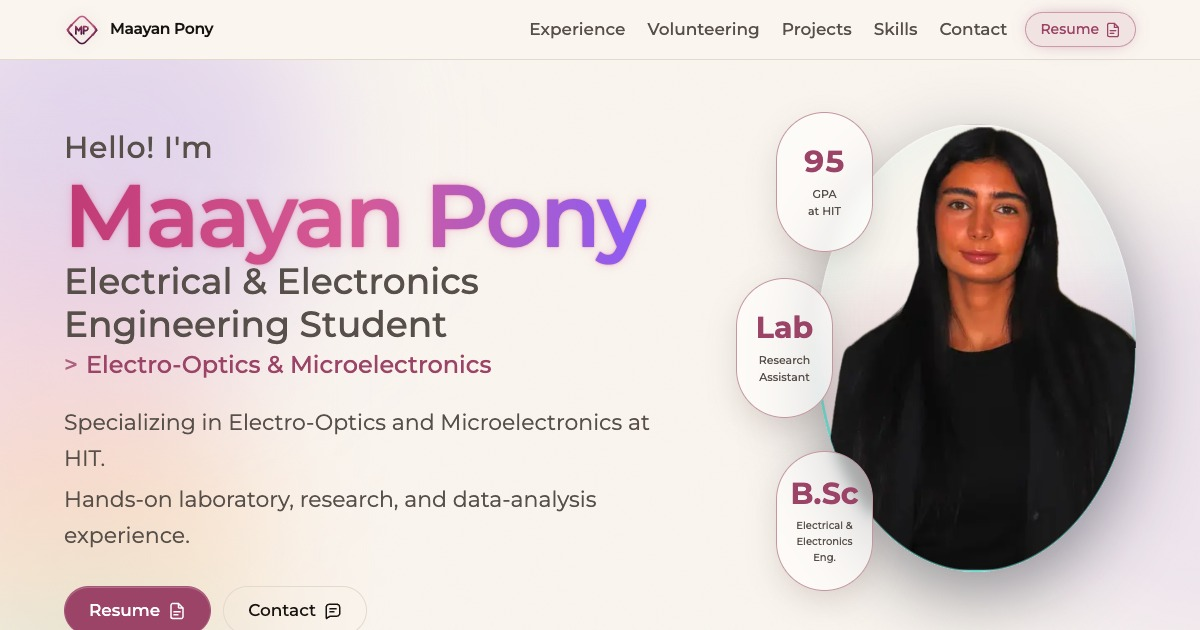
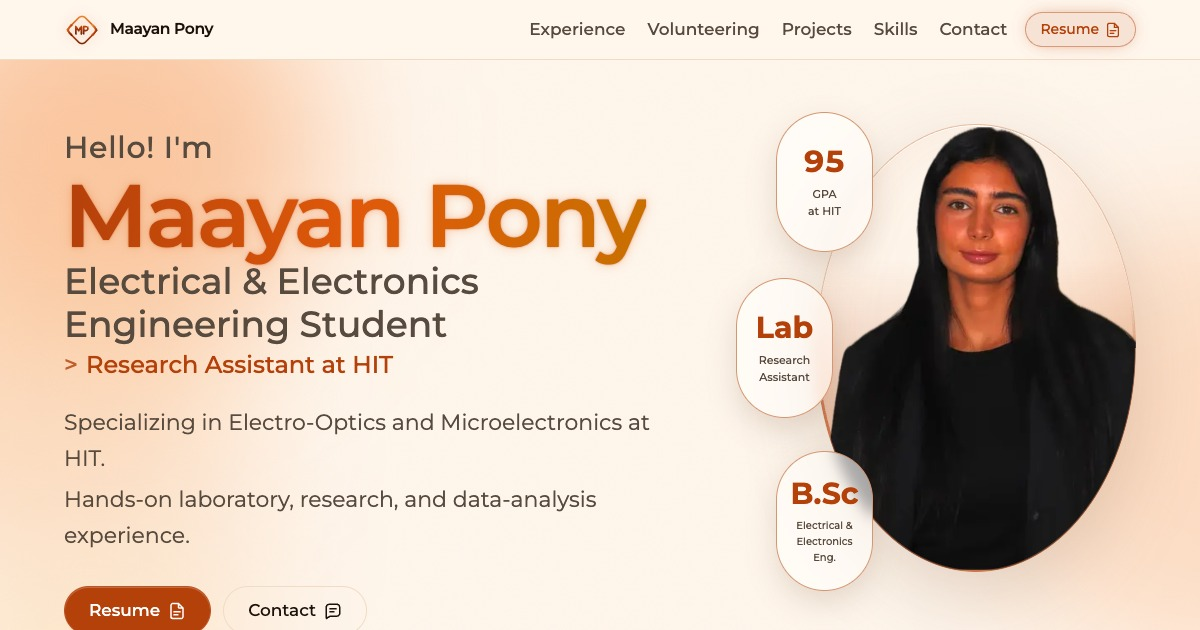
refactor color palette and gradients for a cohesive orange theme; update Hero and CSS for improved visual consistency

diff --git a/app/globals.css b/app/globals.css
@@ -10,28 +10,31 @@
 
 :root {
   color-scheme: light;
-  --bg-base: #FAF5EF;
-  --bg-surface: #FFFCF8;
+  --bg-base: #FFF6EC;
+  --bg-surface: #FFFBF6;
   --bg-surface-raised: #FFFFFF;
-  --border: #E3D9CD;
-  --text-primary: #171310;
-  --text-secondary: #574F4A;
-  --text-muted: #75695F;
-  /* Deep enough that accent-coloured text still clears AA when it sits on an
-     accent-tinted fill (the nav Resume CTA, the "current role" pill, the viewer action
-     links), not just on the bare page. `--accent-hover` goes darker, not lighter: on a
-     light surface, deeper reads as "pressed/active". */
-  --accent: #9C4468;
-  --accent-hover: #82334F;
+  --border: #F0DCC6;
+  --text-primary: #1A120B;
+  --text-secondary: #574A3E;
+  --text-muted: #766050;
+  /* Burnt orange, deep enough that accent-coloured text still clears AA when it sits on
+     an accent-tinted fill (the nav Resume CTA, the "current role" pill, the viewer action
+     links), not just on the bare page - a mid/bright orange would not (4.5:1 rules out
+     anything lighter than roughly this). `--accent-hover` goes darker, not lighter: on a
+     light surface, deeper reads as "pressed/active".
+     Contrast on --bg-base: accent 5.34:1, accent-hover 7.53:1; white on accent 5.71:1. */
+  --accent: #B4400A;
+  --accent-hover: #8F3105;
   --accent-contrast: #FFFFFF;
-  /* Display gradient (hero name, highlighted heading words, logo, bars). Runs
-     raspberry → rose → violet: saturated enough to read as colour (not grey-mauve)
-     on the cream page, warm and feminine to match the pastel washes, and every stop
-     clears 3:1 on --bg-base for the large display text it paints. */
-  --gradient-from: #C13A76;
-  --gradient-via: #D65A96;
-  --gradient-to: #8B5CF6;
-  --danger: #C93D3D;
+  /* Display gradient (hero name, highlighted heading words, logo, bars). A single-hue
+     sunset arc, deep orange → vivid orange → gold, mirroring the reference wash: the
+     bright core sits in the middle so the ends stay dark enough to read. Every stop
+     clears 3:1 on --bg-base for the large display text it paints (5.34 / 3.51 / 3.39). */
+  --gradient-from: #B4400A;
+  --gradient-via: #E0590A;
+  --gradient-to: #C97000;
+  /* Kept a true red rather than an orange-red, so error state never reads as accent. */
+  --danger: #B3211B;
 
   /* ---- Light-theme material tokens -------------------------------------------------
      The site's surfaces are "paper on cream": translucent white plates lifted off the
@@ -39,15 +42,18 @@
      tokens carry that language so every card, dialog, chip and seam is retinted from
      one place instead of from per-component literals. */
 
-  /* Soft pastel wash palette - the blurred ambient blobs behind the content. */
-  --pastel-pink: #F1C9D9;
-  --pastel-lavender: #D7C6EC;
-  --pastel-mint: #BCE3D9;
-  --pastel-peach: #F8D5AE;
+  /* Soft wash palette - the blurred ambient blobs behind the content. All one orange
+     family (pale peach → gold), separated by saturation and lightness rather than hue so
+     overlapping blobs still read as distinct shapes instead of one flat stain.
+     Decorative only: never text, never a border, so no contrast floor applies. */
+  --wash-peach: #FCDCC0;
+  --wash-apricot: #FBC79A;
+  --wash-tangerine: #F9AE79;
+  --wash-amber: #FDE2AC;
 
   /* Elevation. Warm ink, so shadows read as paper shade rather than grey haze; on a
      light page they need far lower alpha than a dark one. */
-  --shadow-rgb: 92 66 58;
+  --shadow-rgb: 104 62 34;
   /* Veil drawn over the page behind a modal / expanded card. */
   --scrim: rgb(var(--shadow-rgb) / 0.28);
 
@@ -64,14 +70,14 @@
      darker than the page, not a translucent white one). */
   --glass-edge: color-mix(in srgb, var(--accent) 20%, var(--border));
   --glass-edge-strong: color-mix(in srgb, var(--accent) 45%, var(--border));
-  /* The two hue tints layered into a plate, echoing the ambient pastels. */
+  /* The two tints layered into a plate, echoing the ambient washes. */
   --glass-tint-a: color-mix(in srgb, var(--accent) 7%, transparent);
   --glass-tint-b: color-mix(in srgb, var(--gradient-to) 6%, transparent);
   /* Small pills/chips sitting on a plate. */
   --chip-fill: color-mix(in srgb, var(--accent) 6%, transparent);
   --chip-fill-hover: color-mix(in srgb, var(--accent) 12%, transparent);
   /* Roadmap road surface + lane dashes (§8.6). */
-  --road-surface: #C8BCAE;
+  --road-surface: #D2B79B;
   --road-lane: rgb(255 255 255 / 0.85);
 
   --background: var(--bg-base);
@@ -168,7 +174,7 @@ html {
 }
 
 /* Hero name shine - decorative sweep layered over the typed name; runs after typing
-   completes (gated in JSX) and only when motion is allowed. A bright rose-white glint
+   completes (gated in JSX) and only when motion is allowed. A bright amber-white glint
    (soft tinted shoulders, near-white core) so the pass reads as light catching the
    letters rather than a shadow crossing them. */
 .hero-name-shine {
@@ -176,7 +182,7 @@ html {
     100deg,
     transparent 30%,
     color-mix(in srgb, #ffffff 55%, var(--gradient-from)) 42%,
-    #fff9fc 50%,
+    #fffaf2 50%,
     color-mix(in srgb, #ffffff 55%, var(--gradient-to)) 58%,
     transparent 70%
   );
@@ -2529,25 +2535,25 @@ main:focus-visible {
   inset: 0;
 }
 
-/* The glows paint with the pastel wash palette rather than the accent itself: on a
-   cream page a saturated tint reads as a stain, while the pastels read as the soft
-   blurred blobs the theme is built around. Light pastels need a much higher mix
-   percentage than the old dark-theme tints to be visible at all. */
+/* The glows paint with the soft wash palette rather than the accent itself: on a
+   warm cream page the saturated burnt orange reads as a stain, while the light washes
+   read as the soft blurred blobs the theme is built around. Light washes need a much
+   higher mix percentage than the old dark-theme tints to be visible at all. */
 .section-glow--split {
   background:
     radial-gradient(
       60% 46% at 88% -4%,
-      color-mix(in srgb, var(--pastel-lavender) 62%, transparent),
+      color-mix(in srgb, var(--wash-tangerine) 62%, transparent),
       transparent 34%
     ),
     radial-gradient(
       46% 42% at 6% 6%,
-      color-mix(in srgb, var(--pastel-pink) 58%, transparent),
+      color-mix(in srgb, var(--wash-apricot) 58%, transparent),
       transparent 32%
     ),
     radial-gradient(
       40% 38% at 18% 96%,
-      color-mix(in srgb, var(--pastel-mint) 45%, transparent),
+      color-mix(in srgb, var(--wash-amber) 45%, transparent),
       transparent 34%
     );
 }
@@ -2556,12 +2562,12 @@ main:focus-visible {
   background:
     radial-gradient(
       circle at 12% 18%,
-      color-mix(in srgb, var(--pastel-pink) 58%, transparent),
+      color-mix(in srgb, var(--wash-apricot) 58%, transparent),
       transparent 30%
     ),
     radial-gradient(
       circle at 8% 82%,
-      color-mix(in srgb, var(--pastel-lavender) 58%, transparent),
+      color-mix(in srgb, var(--wash-tangerine) 58%, transparent),
       transparent 32%
     );
 }
@@ -2570,12 +2576,12 @@ main:focus-visible {
   background:
     radial-gradient(
       circle at 88% 16%,
-      color-mix(in srgb, var(--pastel-peach) 55%, transparent),
+      color-mix(in srgb, var(--wash-peach) 55%, transparent),
       transparent 28%
     ),
     radial-gradient(
       circle at 90% 80%,
-      color-mix(in srgb, var(--pastel-lavender) 58%, transparent),
+      color-mix(in srgb, var(--wash-tangerine) 58%, transparent),
       transparent 30%
     );
 }
@@ -2591,12 +2597,12 @@ main:focus-visible {
   background:
     radial-gradient(
       38% 38% at 32% 30%,
-      color-mix(in srgb, var(--pastel-mint) 46%, transparent),
+      color-mix(in srgb, var(--wash-amber) 46%, transparent),
       transparent 70%
     ),
     radial-gradient(
       42% 42% at 70% 66%,
-      color-mix(in srgb, var(--pastel-peach) 46%, transparent),
+      color-mix(in srgb, var(--wash-peach) 46%, transparent),
       transparent 70%
     );
   opacity: 0.6;

diff --git a/components/sections/HeroContent.tsx b/components/sections/HeroContent.tsx
@@ -354,7 +354,7 @@ export function HeroContent({ initials }: HeroContentProps) {
               aria-expanded={resumeOpen}
               className={cn(
                 ctaBaseClasses,
-                "w-full border border-white/10 bg-accent text-accent-contrast shadow-[inset_0_1px_0_rgba(255,255,255,0.22),0_0_0_rgba(45,212,191,0)] backdrop-blur hover:bg-accent-hover hover:shadow-[inset_0_1px_0_rgba(255,255,255,0.24),0_12px_28px_rgba(45,212,191,0.22)]"
+                "w-full border border-white/10 bg-accent text-accent-contrast shadow-[inset_0_1px_0_rgba(255,255,255,0.22),0_0_0_transparent] backdrop-blur hover:bg-accent-hover hover:shadow-[inset_0_1px_0_rgba(255,255,255,0.24),0_12px_28px_color-mix(in_srgb,var(--accent)_35%,transparent)]"
               )}
             >
               {PRIMARY_CTA_LABEL}
@@ -372,7 +372,7 @@ export function HeroContent({ initials }: HeroContentProps) {
               href="#contact"
               className={cn(
                 ctaBaseClasses,
-                "w-full border border-border bg-bg-surface-raised/90 text-text-primary shadow-[0_0_0_rgba(45,212,191,0)] backdrop-blur hover:border-accent hover:bg-[color-mix(in_srgb,var(--accent)_10%,color-mix(in_srgb,var(--bg-surface-raised)_90%,transparent))] hover:text-accent hover:shadow-[0_12px_28px_rgba(45,212,191,0.14)] supports-[backdrop-filter]:bg-bg-surface-raised/75 supports-[backdrop-filter]:hover:bg-[color-mix(in_srgb,var(--accent)_10%,color-mix(in_srgb,var(--bg-surface-raised)_75%,transparent))]"
+                "w-full border border-border bg-bg-surface-raised/90 text-text-primary shadow-[0_0_0_transparent] backdrop-blur hover:border-accent hover:bg-[color-mix(in_srgb,var(--accent)_10%,color-mix(in_srgb,var(--bg-surface-raised)_90%,transparent))] hover:text-accent hover:shadow-[0_12px_28px_color-mix(in_srgb,var(--accent)_22%,transparent)] supports-[backdrop-filter]:bg-bg-surface-raised/75 supports-[backdrop-filter]:hover:bg-[color-mix(in_srgb,var(--accent)_10%,color-mix(in_srgb,var(--bg-surface-raised)_75%,transparent))]"
               )}
             >
               {SECONDARY_CTA_LABEL}
@@ -397,20 +397,29 @@ export function HeroContent({ initials }: HeroContentProps) {
              * spills outside. Fill + border fade in over the lower half only, leaving
              * the cropped head "popping out" of an unframed top.
              */}
-            {/* Glass version of the fill - same oval and gradient stop, teal accent colour. */}
+            {/* Glass version of the fill - same oval and gradient stop, accent-tinted.
+                The colours go through `style` rather than arbitrary Tailwind shadow
+                values because `color-mix()`/`rgb(... / a)` contain spaces and commas
+                that an arbitrary class can't carry. */}
             <div
               aria-hidden="true"
-              className="pointer-events-none absolute inset-0 -z-10 rounded-[50%] border border-white/10 shadow-[inset_0_1px_0_rgba(255,255,255,0.18),inset_0_-28px_76px_rgba(45,212,191,0.14),0_24px_70px_rgba(2,6,23,0.42)] backdrop-blur-2xl"
+              className="pointer-events-none absolute inset-0 -z-10 rounded-[50%] border backdrop-blur-2xl"
               style={{
+                borderColor: "var(--glass-edge)",
+                boxShadow:
+                  "inset 0 1px 0 var(--glass-highlight), inset 0 -28px 76px color-mix(in srgb, var(--accent) 12%, transparent), 0 24px 70px rgb(var(--shadow-rgb) / 0.18)",
                 background:
                   "linear-gradient(to bottom, transparent 30%, color-mix(in srgb, var(--accent) 30%, transparent) 70%)",
               }}
             />
-            {/* Lower-half border treatment, softened into a glass edge - teal accent colour. */}
+            {/* Lower-half border treatment, softened into a glass edge - accent-tinted. */}
             <div
               aria-hidden="true"
-              className="pointer-events-none absolute inset-0 -z-10 rounded-[50%] border-[3px] border-[rgba(45,212,191,0.62)] shadow-[inset_0_1px_0_rgba(255,255,255,0.18),0_0_34px_rgba(45,212,191,0.22)]"
+              className="pointer-events-none absolute inset-0 -z-10 rounded-[50%] border-[3px]"
               style={{
+                borderColor: "color-mix(in srgb, var(--accent) 55%, transparent)",
+                boxShadow:
+                  "inset 0 1px 0 var(--glass-highlight), 0 0 34px color-mix(in srgb, var(--accent) 22%, transparent)",
                 WebkitMaskImage:
                   "linear-gradient(to bottom, transparent 40%, #000 62%)",
                 maskImage: "linear-gradient(to bottom, transparent 40%, #000 62%)",

diff --git a/components/sections/Hero.tsx b/components/sections/Hero.tsx
@@ -27,18 +27,18 @@ export function Hero() {
       className={cn("relative isolate w-full overflow-x-hidden font-hero", heroFont.variable)}
     >
       {/* Atmospheric backdrop - tokens only (§6.3) + decorative floating code (§8.1).
-         A cluster of soft pastel blobs bleeds in from the left edge over the cream
-         page, the way the theme's reference composition does; a single lavender blob
-         on the right balances the portrait. Pastels on a light page need far more
+         A cluster of soft orange wash blobs bleeds in from the left edge over the warm
+         page, the way the theme's reference composition does; a single tangerine blob
+         on the right balances the portrait. Washes on a light page need far more
          opacity than a tint on a dark one to register at all, and they stay light
          enough that the text over them keeps well clear of the AA floor (§20). */}
       <div aria-hidden="true" className="pointer-events-none absolute inset-0 -z-10 overflow-hidden">
         <div className="absolute inset-0 bg-bg-base" />
-        <div className="absolute -left-24 -top-24 h-[min(60vh,26rem)] w-[min(80vw,26rem)] rounded-full bg-pastel-lavender opacity-65 blur-3xl" />
-        <div className="absolute -left-40 top-1/4 h-[min(50vh,22rem)] w-[min(70vw,24rem)] rounded-full bg-pastel-pink opacity-55 blur-3xl" />
-        <div className="absolute -left-20 bottom-0 h-[min(46vh,20rem)] w-[min(64vw,22rem)] rounded-full bg-pastel-peach opacity-50 blur-3xl" />
-        <div className="absolute -left-10 -bottom-28 h-[min(34vh,15rem)] w-[min(44vw,16rem)] rounded-full bg-pastel-mint opacity-40 blur-3xl" />
-        <div className="absolute -right-1/4 top-1/4 h-[min(70vh,28rem)] w-[min(90vw,32rem)] rounded-full bg-pastel-lavender opacity-35 blur-3xl" />
+        <div className="absolute -left-24 -top-24 h-[min(60vh,26rem)] w-[min(80vw,26rem)] rounded-full bg-wash-tangerine opacity-65 blur-3xl" />
+        <div className="absolute -left-40 top-1/4 h-[min(50vh,22rem)] w-[min(70vw,24rem)] rounded-full bg-wash-apricot opacity-55 blur-3xl" />
+        <div className="absolute -left-20 bottom-0 h-[min(46vh,20rem)] w-[min(64vw,22rem)] rounded-full bg-wash-peach opacity-50 blur-3xl" />
+        <div className="absolute -left-10 -bottom-28 h-[min(34vh,15rem)] w-[min(44vw,16rem)] rounded-full bg-wash-amber opacity-40 blur-3xl" />
+        <div className="absolute -right-1/4 top-1/4 h-[min(70vh,28rem)] w-[min(90vw,32rem)] rounded-full bg-wash-tangerine opacity-35 blur-3xl" />
         {/* Same film-grain tile the section backgrounds use, so the whole page reads
            as one material (see SectionBackground / .section-grain). */}
         <div className="section-grain" />

diff --git a/lib/content/skill-icons.ts b/lib/content/skill-icons.ts
@@ -514,8 +514,8 @@ export function getSkillIcon(skillName: string): SkillIcon | null {
 /** Warm near-black for brands whose official mark is pure black (Next.js,
  *  GitHub, Express, Cursor, OpenAI) - pure #000 clashes with the cream palette. */
 const WARM_INK = "#2E2A27";
-/** Site accent - also the fallback for skills without a brand color. */
-const ACCENT = "#9C4468";
+/** Site accent (`--accent`) - also the fallback for skills without a brand color. */
+const ACCENT = "#B4400A";
 
 /**
  * Skill name → brand color for the icon fill, keyed exactly like `skills.ts`.
@@ -558,11 +558,13 @@ export const SKILL_COLORS: Record<string, string> = {
   GitHub: WARM_INK,
   Figma: "#F24E1E",
 
-  // Concepts & Methodologies - accent + display gradient stops
+  // Concepts & Methodologies - four distinct steps along the theme's orange ramp
+  // (accent → gradient-via → gradient-to → accent-hover) so the row doesn't render
+  // four identical marks now that every theme stop shares one hue.
   "REST APIs": ACCENT,
-  "System Design": "#8B5CF6",
-  Agile: "#C13A76",
-  "Full Development Lifecycle": "#D65A96",
+  "System Design": "#C97000",
+  Agile: "#E0590A",
+  "Full Development Lifecycle": "#8F3105",
 
   // AI Development
   ChatGPT: "#10A37F",
@@ -571,7 +573,7 @@ export const SKILL_COLORS: Record<string, string> = {
   "OpenAI API": WARM_INK,
   "Claude Code": "#D97757",
   // No brand owns "AI Agents", so it takes the site accent like the other
-  // concept skills - and it keeps this row off a third purple.
+  // concept skills - and it keeps this row off a third purple (Copilot, Cursor).
   "AI Agents": ACCENT,
 };
 

diff --git a/tailwind.config.ts b/tailwind.config.ts
@@ -35,12 +35,12 @@ const config: Config = {
         "gradient-from": "var(--gradient-from)",
         "gradient-via": "var(--gradient-via)",
         "gradient-to": "var(--gradient-to)",
-        // Ambient pastel wash palette (see the light-theme material tokens in
+        // Ambient orange wash palette (see the light-theme material tokens in
         // globals.css) - decorative blurred blobs only, never text or borders.
-        "pastel-pink": "var(--pastel-pink)",
-        "pastel-lavender": "var(--pastel-lavender)",
-        "pastel-mint": "var(--pastel-mint)",
-        "pastel-peach": "var(--pastel-peach)",
+        "wash-peach": "var(--wash-peach)",
+        "wash-apricot": "var(--wash-apricot)",
+        "wash-tangerine": "var(--wash-tangerine)",
+        "wash-amber": "var(--wash-amber)",
         danger: "var(--danger)",
         background: "var(--background)",
         foreground: "var(--foreground)",

diff --git a/components/layout/Logo.tsx b/components/layout/Logo.tsx
@@ -5,7 +5,7 @@ import { cn } from "@/lib/utils";
  * Site logo: the "MP" code-brackets monogram beside the owner's wordmark
  * (`profile.name`, so it can't drift from the content layer).
  *
- * The mark (`/public/site-logo-mark.svg`) carries its own rose/plum/gold gradient, so it is
+ * The mark (`/public/site-logo-mark.svg`) carries its own orange/rust/gold gradient, so it is
  * rendered directly rather than through the CSS-mask technique used for a single-hue glyph.
  * It goes through a plain `<img>` rather than `next/image`: the source is an SVG, and the
  * image optimizer rejects SVG unless `dangerouslyAllowSVG` is enabled - which is not worth
